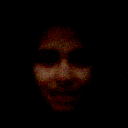
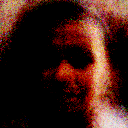
Styled image display page.

diff --git a/Project/Client/styles.css b/Project/Client/styles.css
@@ -51,7 +51,7 @@ body {
     right: 0.025%;
     margin:0;
     padding:0; 
-}
+}   
 #loginheader{
     margin-top: 0.25%;
     margin-bottom: 3%;
@@ -66,6 +66,48 @@ body {
     margin-top: 1.5%;
     margin-bottom: 1%;
 }
+.button {
+    padding: 10px 20px;
+    font-size: 16px;
+    text-transform: uppercase;
+    letter-spacing: 1px;
+    border: none;
+    border-radius: 5px;
+    background-image: linear-gradient(to right, #6a11cb 0%, #2575fc 100%);
+    color: #fff;
+    cursor: pointer;
+    outline: none;
+    position: relative;
+    transition: transform 0.1s ease-out, box-shadow 0.2s ease;
+  }
+  
+  .button::before {
+    content: "";
+    position: absolute;
+    top: 0;
+    left: 0;
+    right: 0;
+    bottom: 0;
+    background-image: linear-gradient(to right, #6a11cb 0%, #2575fc 100%);
+    z-index: -1;
+    transition: opacity 0.3s;
+    border-radius: 5px;
+    opacity: 0;
+  }
+  
+  .button:hover::before {
+    opacity: 1;
+  }
+  
+  .button:hover {
+    transform: translateY(-2px);
+    box-shadow: 0 10px 20px rgba(0,0,0,0.2);
+  }
+  
+  .button:active {
+    transform: translateY(1px);
+    box-shadow: 0 5px 10px rgba(0,0,0,0.2);
+  }
 
 #secondaryheader{
     margin-top: 0%;
@@ -80,6 +122,41 @@ body {
    
 }
 
+.generator_panel {
+    display: flex;
+    flex-direction: column; /* Stack children vertically */
+    justify-content: center; /* Center children vertically */
+    align-items: center; /* Center children horizontally */
+    width: 50vw; /* 50% of the viewport width */
+    height: 50vh; /* 50% of the viewport height */
+    margin: auto; /* Center the panel in the viewport */
+    background-color: #5c5757; /* White background for the panel */
+    box-shadow: 0 4px 8px rgba(0, 0, 0, 0.1); /* Subtle shadow for depth */
+    border-radius: 10px; /* Rounded corners for a modern look */
+    padding: 20px; /* Padding inside the panel */
+    overflow: hidden; /* Ensure nothing spills out of the panel */
+  }
+  
+  .button {
+    margin-bottom: 20px; /* Space between the button and the image */
+    /* Add your button styles here */
+  }
+  
+  #avatarImage {
+    width: 500px; /* Responsive image width within the panel */
+    height: auto; /* Maintain aspect ratio */
+    border-radius: 8px;
+     /* Optionally round corners of the image itself */
+    /* The display property will be changed dynamically with JavaScript */
+  }
+  
+  /* Ensure the entire viewport is covered and centered */
+  body, html {
+    height: 100%;
+    justify-content: center;
+    align-items: center;
+    margin: 0;
+  }
 .center-line {
     position: fixed; /* Keeps the line in place while scrolling */
     left: 50%; /* Centers the line horizontally */

diff --git a/Project/Server/database.js b/Project/Server/database.js
@@ -3,8 +3,8 @@ const mysql = require('mysql2/promise');
 
 const pool = mysql.createPool({
     host: 'localhost',
-    user: 'root', // Assuming 'root' is your MySQL user
-    password: 'cosc310db',
+    user: 'admin', // Assuming 'root' is your MySQL user
+    password: 'alphabrainsdb', // alphabrainsdb for PC 
     database: 'samplegenerator',
     waitForConnections: true,
     connectionLimit: 10,

diff --git a/main.py b/main.py
@@ -29,9 +29,11 @@ class Generator(nn.Module):
         return img
 
     def generate_and_save_image(self, input, filepath):
-        with torch.no_grad():  # Ensure gradients aren't calculated
+        with torch.no_grad(): 
             generated_image = self.forward(input)  # Generate the image
             save_image(generated_image, filepath)  # Save image
+
+
 # Define the Discriminator
 class Discriminator(nn.Module):
     def __init__(self):
@@ -86,7 +88,7 @@ discriminator = discriminator.to(device)
 
 if __name__ == '__main__':
 # Training loop
-    epochs = 101  #Set Epoch amount
+    epochs = 101  #Set Epoch amount here
 
     for epoch in range(epochs):
         for i, (images, _) in enumerate(dataloader):
@@ -120,8 +122,8 @@ if __name__ == '__main__':
             if i % 100 == 0:
                 print(
                     f"Epoch [{epoch}/{epochs}], Step [{i}/{len(dataloader)}], Loss D: {loss_d.item()}, Loss G: {loss_g.item()}")
-            if epoch == 100:
-                with torch.no_grad():
+            if epoch == 100: #Condition for when to display results
+                with torch.no_grad(): #Display results
                     fixed_noise = torch.randn(4, 100, device=device)
                     fake_images = generator(fixed_noise).detach().cpu()
                     grid = utils.make_grid(fake_images, nrow=2, normalize=True)

diff --git a/app.py b/app.py
@@ -17,9 +17,13 @@ generator.eval()  # Set to eval mode for inference
 def generate_image():
     # Generate an image with the loaded model
     # You'll need to provide the appropriate input for your model, e.g., a noise vector
-    noise = torch.randn(1, 100)  # Example noise vector; adjust size as needed
+    noise = torch.randn(1, 100)
+
+    # Scale the noise vector by a factor
+    scaled_noise = noise * 2.0  # 
+
     with torch.no_grad():
-        generated_image = generator(noise)
+        generated_image = generator(scaled_noise)
 
     # Save the generated image to a temporary file and send it
     filepath = 'temp_image.png'  # Consider using a temp file or dynamic naming to handle concurrency
